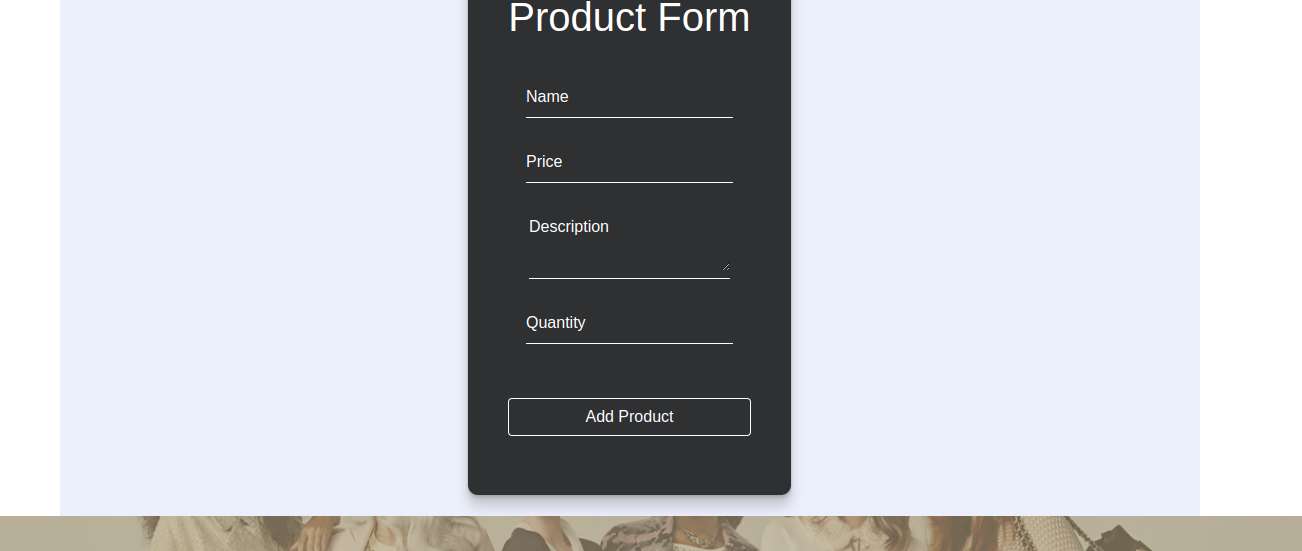
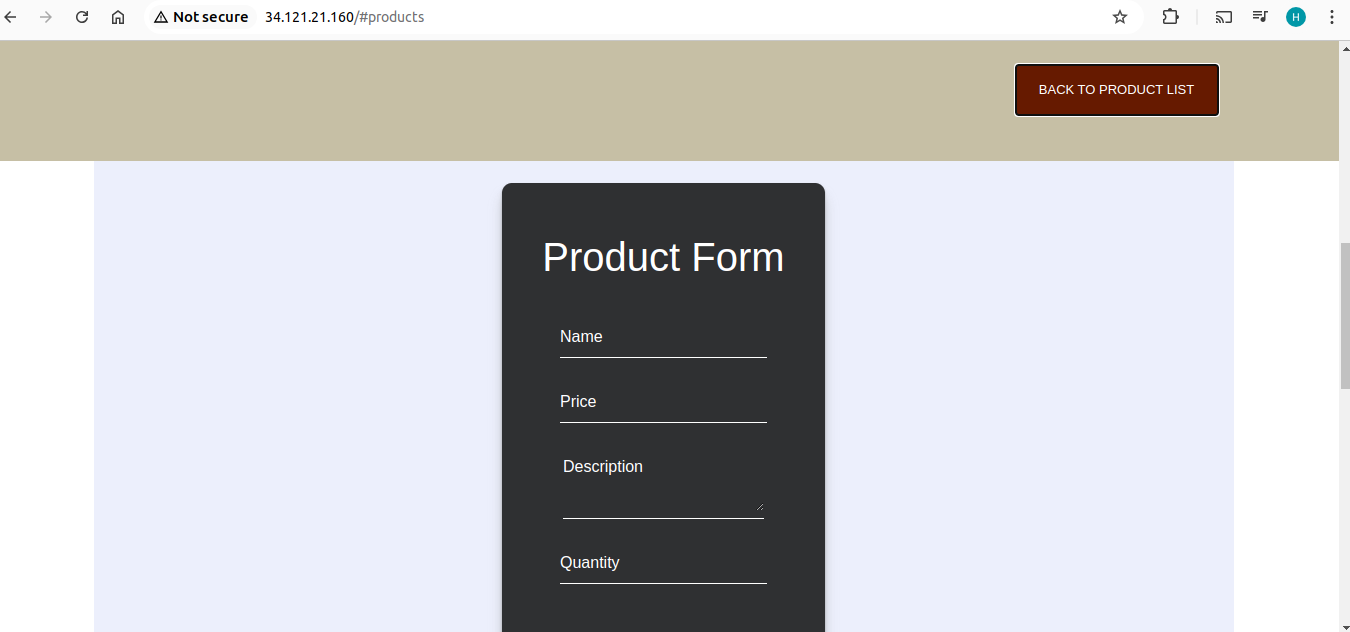
IP4 update readme file

diff --git a/client/src/components/ProductControl.js b/client/src/components/ProductControl.js
@@ -88,7 +88,7 @@ class ProductControl extends Component {
     }*/
 
     componentDidMount() {
-        axios.get('http://backend-service:5000/api/products')
+        axios.get('http://34.44.148.123:5000/api/products')
             .then(res => {
                 console.log(res);
                 this.setState({
@@ -178,7 +178,7 @@ class ProductControl extends Component {
             formVisibleOnPage: false
         })*/
         console.log("Adding new product:", newProduct);
-        axios.post('http://backend-service:5000/api/products', newProduct)
+        axios.post('http://34.44.148.123:5000/api/products', newProduct)
             .then(res => {
                 console.log("Product added:", res.data);
                 // Optionally, update the product list with the newly added product
@@ -195,7 +195,7 @@ class ProductControl extends Component {
         });
     };
     handleDeletingProduct = (id) =>{
-        axios.delete('http://backend-service:5000/api/products/'+id)
+        axios.delete('http://34.44.148.123:5000/api/products/'+id)
             .then(res => console.log(res.data))
             .catch((error) =>{
                 console.log(error)
@@ -215,7 +215,7 @@ class ProductControl extends Component {
     }
     handleEditingProduct = (editedProduct) =>{
 
-        axios.put('http://backend-service:5000/api/products/' + this.state.selectedProduct._id, editedProduct)
+        axios.put('http://34.44.148.123:5000/api/products/' + this.state.selectedProduct._id, editedProduct)
             .then(res =>console.log(res.data))
         
         this.setState({

diff --git a/README.md b/README.md
@@ -1,20 +1,13 @@
 # Overview
-This project involved the containerization and deployment of a full-stack yolo application using Docker.
+This project initially involved the containerization and deployment of a full-stack yolo application using Docker.
 
-
-# Requirements
-Install the docker engine here:
-- [Docker](https://docs.docker.com/engine/install/) 
-
-Follow the following instructions to install vagrant:
-- [Vagrant](https://cloudspinx.com/installation-of-vagrant-on-ubuntu/) 
-
-## How to run the app
-Use vagrant up --provison command
+The same project has now been updated and orchestrated using google cloud kubernetes (GKE)
 
 ## How to access the Page
+Frontend image was updated to use NGINX. (default port 80 was used)
+To access use the following url (loadbalancer external ip)
 
-http://localhost:3000/
+http://34.121.21.160/
 
 ## Home Page
 
